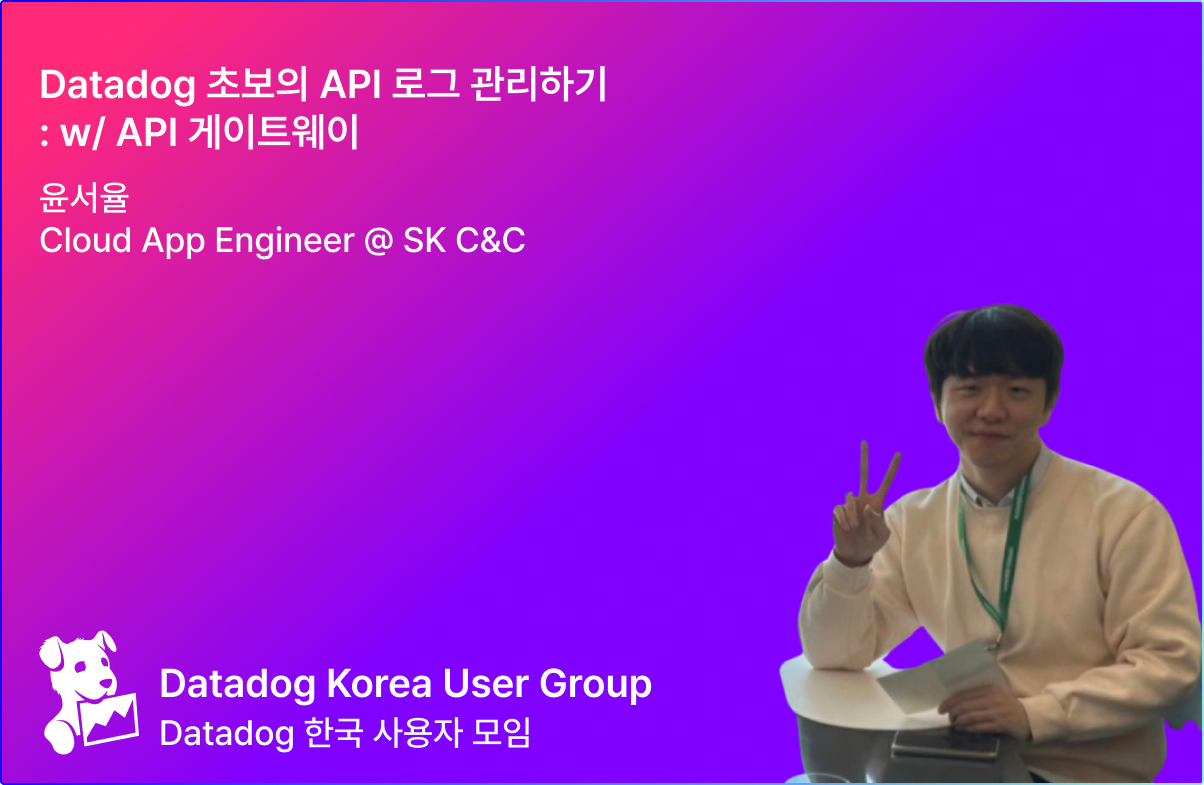
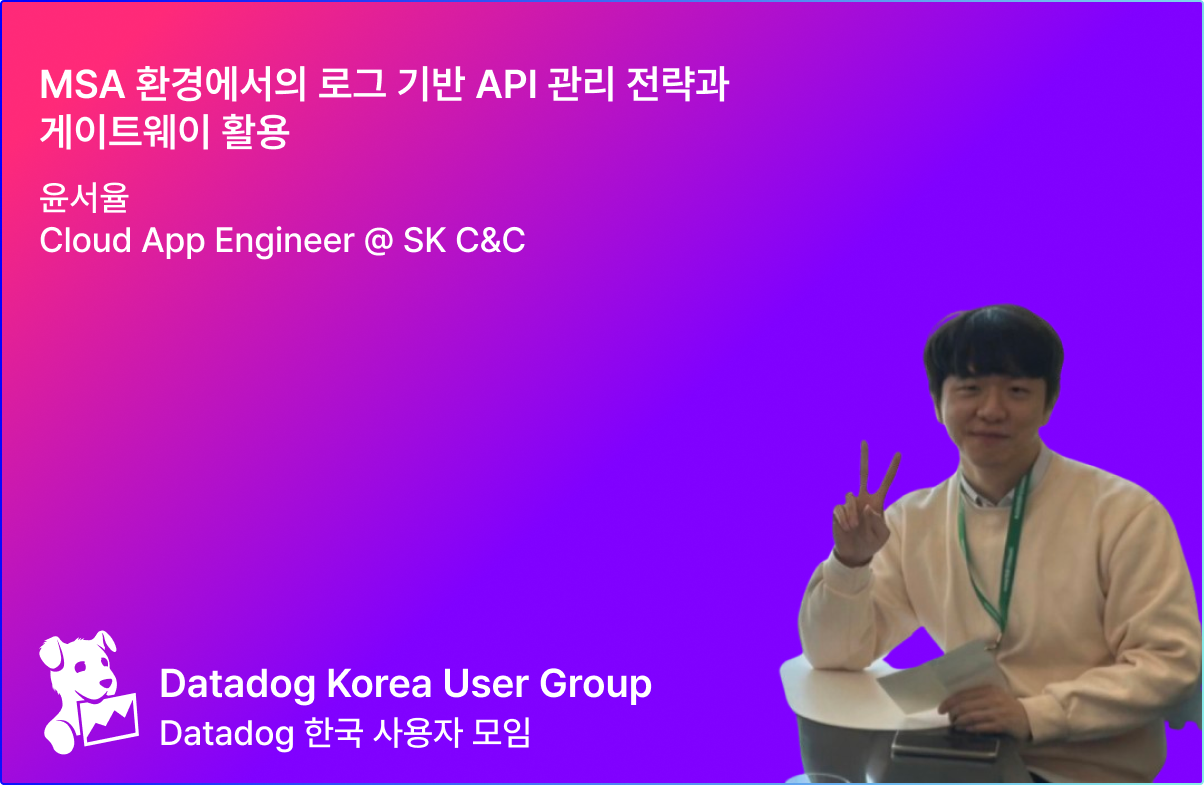
4th meetup

Changed region(s): [[0.0307, 0.0611, 0.6146, 0.214]]

diff --git a/src/constants/events.tsx b/src/constants/events.tsx
@@ -1,9 +1,13 @@
 import OG_1 from "@/public/images/og/1.png";
 import OG_2 from "@/public/images/og/2.png";
 import OG_3 from "@/public/images/og/3.png";
+import OG_4 from "@/public/images/og/4.png";
 
 import OG_20250123_1 from "@/public/images/og/20250123_1.png";
 import OG_20250123_2 from "@/public/images/og/20250123_2.png";
+
+import OG_20250221_1 from "@/public/images/og/20250221_1.png";
+import OG_20250221_2 from "@/public/images/og/20250221_2.png";
 
 export const Events = [
   {
@@ -266,6 +270,106 @@ export const Events = [
             <li>20:10 ~ 20:50 - 세션 2</li>
             <li>20:50 ~ 21:00 - 세션 2 질의 응답</li>
             <li>21:00 - 행사 종료</li>
+          </ul>
+          <p className='mb-4'>■ 참가 안내</p>
+          <ul className='pl-5 list-disc mb-4'>
+            <li>
+              참가비는 <strong>15,400원(부가세 10% 포함)</strong>이며 인프런에서 신청 및 결제 부탁드립니다<div className=""></div>
+            </li>
+            <li>
+              참가비는 간단한 식사 제공 및 DatadogKRUG 운영에 사용됩니다.
+            </li>
+            <li>
+              환불가능 시간 이후에는 식사 및 출입준비 절차 완료로 인해 환불이 어렵습니다.
+            </li>
+          </ul>
+          <em>커뮤니티의 운영을 위해 비영리 법인 설립 준비 및 더욱 다양한 행사를 준비하기 위해 부득이 하게 2025년 부터 참가비를 인상하게 되었습니다. 더욱 좋은 행사를 준비하기 위해 앞으로 더욱 노력하겠습니다.</em>
+        </div>
+
+        <br />
+      </div>
+    ),
+  },
+  {
+    href: "https://www.inflearn.com/course/offline/%EB%8D%B0%EC%9D%B4%ED%84%B0%EB%8F%85-%ED%95%9C%EA%B5%AD%EC%82%AC%EC%9A%A9%EC%9E%90%EB%AA%A8%EC%9E%84-4%ED%9A%8C-%EB%B0%8B%EC%97%85",
+    title: "DatadogKRUG 4회 밋업",
+    description: `2025.02.21 (금) 19:00~20:40\n서울 성동구 연무장7길 13 (팩토리얼성수) 4층`,
+    thumbnail: OG_4,
+    images: [],
+    stack: ["MSA", "Logs", "Gateway", "Infra", "DevOps", "IDC"],
+    slug: "4",
+    created_at: "2025-02-21",
+    content: (
+      <div id='event-details' className='px-6 sm:px-4 xl:px-0 md:max-w-screen mt-5 w-full '>
+        <div className='flex items-center justify-between'>
+          <h2 className='text-xl font-semibold'>세부 정보</h2>
+        </div>
+        <div className='break-words'>
+          <p className='mb-4'>
+            <strong>■ 모임 소개</strong>
+            <br />
+            DatadogKRUG (Datadog Korea User Group)은 Monitoring, Observability와 관련된 모든 주제에 대해서 지식을
+            교류하며 함께 성장하는 모임입니다.
+            <br />
+            Datadog뿐만 아니라 Datadog에서 사용할 수 있는 수많은 Integrations 들에 대한 내용도 공유할 수 있습니다.
+            <br />
+            누구나 참여해서 즐겁게 즐길 수 있는 분위기, 토론 및 질의응답, 네트워킹 하는 것을 지향합니다.
+          </p>
+          <p className='mb-4'>
+            ■ 일시 및 장소
+            <br />
+            일시 : 2025.02.21 (금) 19:00~20:40
+            <br />
+            장소 : 서울 성동구 연무장7길 13 (팩토리얼성수) 4층
+            <br />
+          </p>
+          <p className='mb-4'>
+            <em>
+              <strong>오시는 방법 🧭</strong><br />
+            서울 성동구 연무장7길 13 팩토리얼 성수<br />
+            올리브영N 성수 3층으로 올라오시면<br />
+            스킨 핏 스튜디오 옆 계단을 통해서 4층으로 올라오시면 됩니다.</em>
+          </p>
+          <p className='mb-4'>
+            <strong>■ 모임주제</strong>
+          </p>
+          <ul className='pl-5 list-disc mb-4'>
+            <img src={OG_20250221_1.src} alt='20250221_1' />
+            <li>
+              발표자: <strong>윤서율</strong>님 (Cloud App Engineer @ SK C&C)
+            </li>
+            <li>
+              주제: <strong>MSA 환경에서의 로그 기반 API 관리 전략과 게이트웨이 활용</strong>
+            </li>
+          </ul>
+          <p className='mb-4'>
+          마이크로서비스 아키텍처에서 API 게이트웨이를 활용하여 엔지니어 운영자의 입맛에 맞게 로그를 수집하고 분석하는 방법을 소개합니다.
+          실제 운영 환경에서의 API 모니터링 관리 방안을 실무 사례와 함께 쉽게 이야기 합니다.
+          </p>
+          <div className='h-px bg-gray-800 my-4'/>
+          <ul className='pl-5 list-disc mb-4'>
+            <img src={OG_20250221_2.src} alt='20250221_2' />
+            <li>
+              발표자: <strong>송규동</strong>님 (System Engineer @ CJ올리브네트웍스)
+            </li>
+            <li>  
+              주제: <strong>데린이의 데이터센터 Datadog 구성하기</strong>
+            </li>
+          </ul>
+          <p className='mb-4'>
+            CJ그룹 인프라를 운영하고 있는 데이터센터에 Datadog을 활용한
+            통합 모니터링을 구성하면서 겪은 이슈와 고려사항들에 대해 이야기 해보려고 합니다.
+          </p>
+          <p className='mb-4'>■ 진행 순서</p>
+          <ul className='pl-5 mb-4'>
+            <li>18:30 ~ 19:00 - 체크인</li>
+            <li>19:00 ~ 19:10 - 모임 및 행사 소개</li>
+            <li>19:10 ~ 19:40 - 세션 1</li>
+            <li>19:40 ~ 19:50 - 세션 1 질의 응답</li>
+            <li>19:50 ~ 20:00 - 쉬는시간</li>
+            <li>20:00 ~ 20:30 - 세션 2</li>
+            <li>20:30 ~ 20:40 - 세션 2 질의 응답</li>
+            <li>20:40 - 행사 종료</li>
           </ul>
           <p className='mb-4'>■ 참가 안내</p>
           <ul className='pl-5 list-disc mb-4'>
